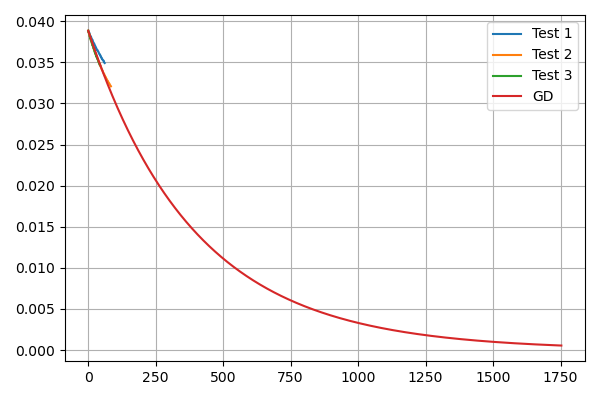
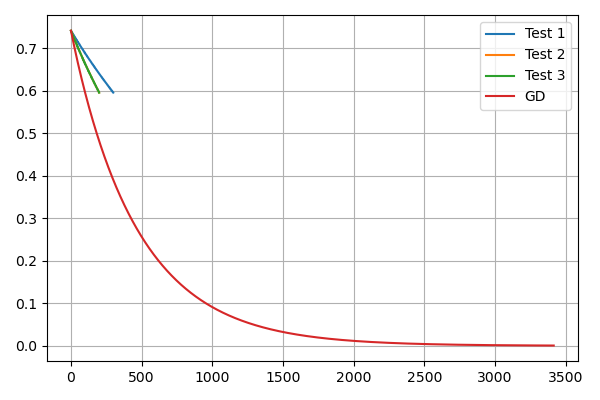
SGD corretta, rimetti a posto PDFhw2

diff --git a/homework/ottimizzazione/SGD.py b/homework/ottimizzazione/SGD.py
@@ -68,9 +68,9 @@ def GD(f,df,x0,alpha,maxIt,fToll,xToll,alphaConst):    #f:R^n->R
         temp=np.linalg.norm(x0 - xTrue)/np.linalg.norm(xTrue)#-------------------------------
         err.append(temp)
 
-        allIters.append(x0.copy())
-        fVals.append(f(x0).copy())
-        dfVals.append(df(x0).copy())
+        allIters.append(x0)
+        fVals.append(f(x0))
+        dfVals.append(df(x0))
 
         dfNorm=np.linalg.norm(df(x0))
         cont+=1
@@ -92,7 +92,7 @@ def SGD (f,df,x0,maxEpoche,maxIt,fToll,xToll,alpha,k):
     fVals=[np.array(f(x0))] 
     
     batch = S_k[:k]
-    dfVals = [np.sum(df(x0, j) for j in batch)]
+    dfVals = [np.sum([df(x0, j) for j in batch], axis=0)]
 
     dfNorm=np.linalg.norm(dfVals[-1])
 
@@ -101,7 +101,7 @@ def SGD (f,df,x0,maxEpoche,maxIt,fToll,xToll,alpha,k):
         for i in range(0,n,k):
             batch=S_k[i:i+k]
             
-            p=-np.sum([df(x0, j) for j in batch])
+            p=-np.sum([df(x0, j) for j in batch], axis=0)
 
             xNew=x0+alpha*p            
 
@@ -111,8 +111,8 @@ def SGD (f,df,x0,maxEpoche,maxIt,fToll,xToll,alpha,k):
             x0=xNew
             cont+=1
 
-            allIters.append(x0.copy())
-            fVals.append(f(x0).copy())
+            allIters.append(x0)
+            fVals.append(f(x0))
             dfVals.append(p)
             
             temp=np.linalg.norm(x0 - xTrue)/np.linalg.norm(xTrue)
@@ -130,9 +130,9 @@ def funF(x):
     n = len(x)
     idx=[]
     for j in range(1,n+1): idx.append(j)
-    idx = np.array(idx)         # 1,2,...,n  (same length as x)
+    idx = np.array(idx)         # 1,2,...,n stessa dim di x
     if np.any(x - idx <= 0):
-        return np.inf               # outside domain → reject
+        return np.inf               #reject cause outside domain 
     return sum((x - idx)**2) - sum(np.log(x))
 
 
@@ -146,13 +146,13 @@ fF  = lambda x: funF(x)
 dfF = lambda x,i: gradFstoc(x,i)
 
 maxIt=10000
-fT=1.e-10
+fT=1.e-6
 xT=1.e-5
-maxEp=100
+maxEp=150
 
-#xStar=(1.3660254,2.2247449,3.1583124,4.1213204,5.0980762)
+#xStar=(1.3660254,2.2247449,3.1583124,4.1213204,5.0980762, ecc)
 
-x0 = np.array([1.1,2.1,3.1,4.1,5.1]) # must satisfy x0[k] > k+1
+x0 = np.ones(5) 
 
 batchSize=2
 (xMin, val, epoche, iters1,a,allIt,fArray,dfArray,Er1)=SGD(fF,dfF,x0,maxEp,maxIt,fT,xT,0.001,batchSize)
@@ -166,7 +166,7 @@ res=(xMin, val,a)
 print(f"{res}")
 print(f"epoche:{epoche}, itersTot={iters2}")
 print("----------------------------------------")
-batchSize=4
+batchSize=1
 (xMin, val, epoche, iters3,a,allIt,fArray,dfArray,Er3)=SGD(fF,dfF,x0,maxEp,maxIt,fT,xT,0.001,batchSize)
 res=(xMin, val,a)
 print(f"{res}")
@@ -179,9 +179,9 @@ def GDfunF(x):
     n = len(x)
     idx=[]
     for j in range(1,n+1): idx.append(j)
-    idx = np.array(idx)         # 1,2,...,n  (same length as x)
+    idx = np.array(idx)         
     if np.any(x - idx <= 0):
-        return np.inf               # outside domain → reject
+        return np.inf               
     return np.sum((x - idx)**2) - np.sum(np.log(x))
 
 
@@ -190,8 +190,6 @@ def GDgradF(x):
     idx=[]
     for j in range(1,n+1): idx.append(j)
     idx = np.array(idx)
-    if np.any(x - idx <= 0):
-        raise ValueError("Gradient undefined: x_k must be > k")
     return 2*(x - idx) - 1/(x)
 
 fGD  = lambda x: GDfunF(x)
